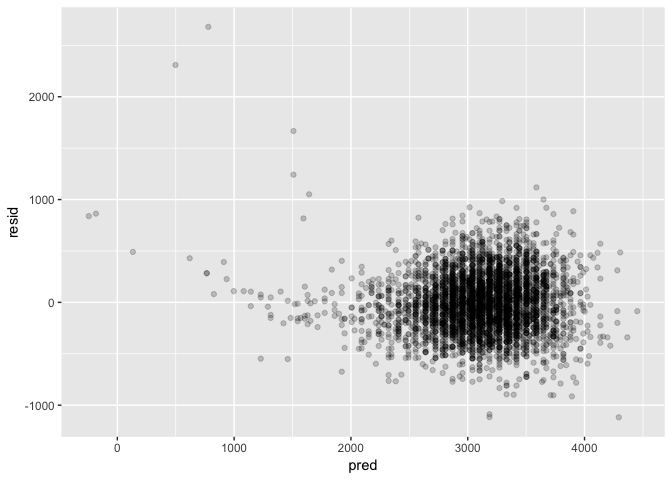
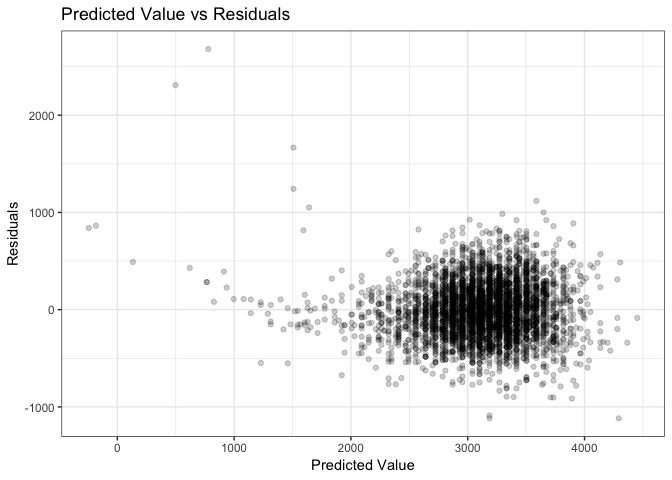
did cross validation, made plot

diff --git a/hw6.md b/hw6.md
@@ -104,6 +104,8 @@ baby = read_csv("data/birthweight.csv") %>%
          mrace = as.factor(mrace))
 ```
 
+#### Regression Model
+
 Here I use stepwise regression to find influential predictors.
 
 ``` r
@@ -139,7 +141,64 @@ baby %>%
   add_predictions(baby_glm) %>% 
   add_residuals(baby_glm) %>% 
   ggplot(aes(x = pred, y = resid)) +
-    geom_point(alpha = 0.2)
+    geom_point(alpha = 0.2) +
+    theme_bw() +
+    theme(legend.position = "") +
+    labs(
+    title = "Predicted Value vs Residuals",
+    x = "Predicted Value",
+    y = "Residuals")
 ```
 
 ![](hw6_files/figure-markdown_github/baby_glm-1.png)
+
+The data are clumped together between 2500 and 4000 for predicted value and around 0 for residuals. For it to be a good model, the data should be spread across evenly across predicted values around a 0 residual value.
+
+#### Cross Validation
+
+##### Models
+
+``` r
+gest_glm = glm(bwt ~ blength + gaweeks, data = baby)
+head_glm = glm(bwt ~ bhead + blength + babysex + 
+                 bhead * blength + bhead * babysex + blength * babysex
+               + bhead * blength * babysex, data = baby)
+```
+
+##### Cross validation and RMSE
+
+``` r
+cv = 
+  crossv_mc(baby, 100) %>% 
+  mutate(baby_glm = map(train, ~lm(bwt ~ bhead + parity + blength, 
+                                   data = .x)),
+         gest_glm = map(train, ~lm(bwt ~ blength + gaweeks, data = .x)),
+         head_glm = map(train, ~lm(bwt ~ bhead + blength + babysex + 
+                 bhead * blength + bhead * babysex + blength * babysex
+               + bhead * blength * babysex, data = baby))) %>% 
+  mutate(rmse_baby = map2_dbl(baby_glm, test, ~rmse(model = .x, 
+                                                   data = .y)),
+         rmse_gest = map2_dbl(gest_glm, test, ~rmse(model = .x, 
+                                                      data = .y)),
+         rmse_head = map2_dbl(head_glm, test, ~rmse(model = .x, 
+                                                      data = .y)))
+```
+
+##### RMSE plot
+
+``` r
+cv %>% 
+  select(starts_with("rmse")) %>% 
+  gather(key = model, value = rmse) %>% 
+  mutate(model = str_replace(model, "rmse_", ""),
+         model = fct_inorder(model)) %>% 
+  ggplot(aes(x = model, y = rmse)) + geom_violin() +
+  labs(
+    title = "Models and RMSE",
+    x = "Model",
+    y = "RMSE")
+```
+
+![](hw6_files/figure-markdown_github/rmse_plot-1.png)
+
+The plot shows that the model with head circumference, length, sex, and all interactions seems to be pretty similar to my model with head circumference, length, and parity. Both models have low RMSE. The model with gestational age and length was the worst with the highest RMSE.
